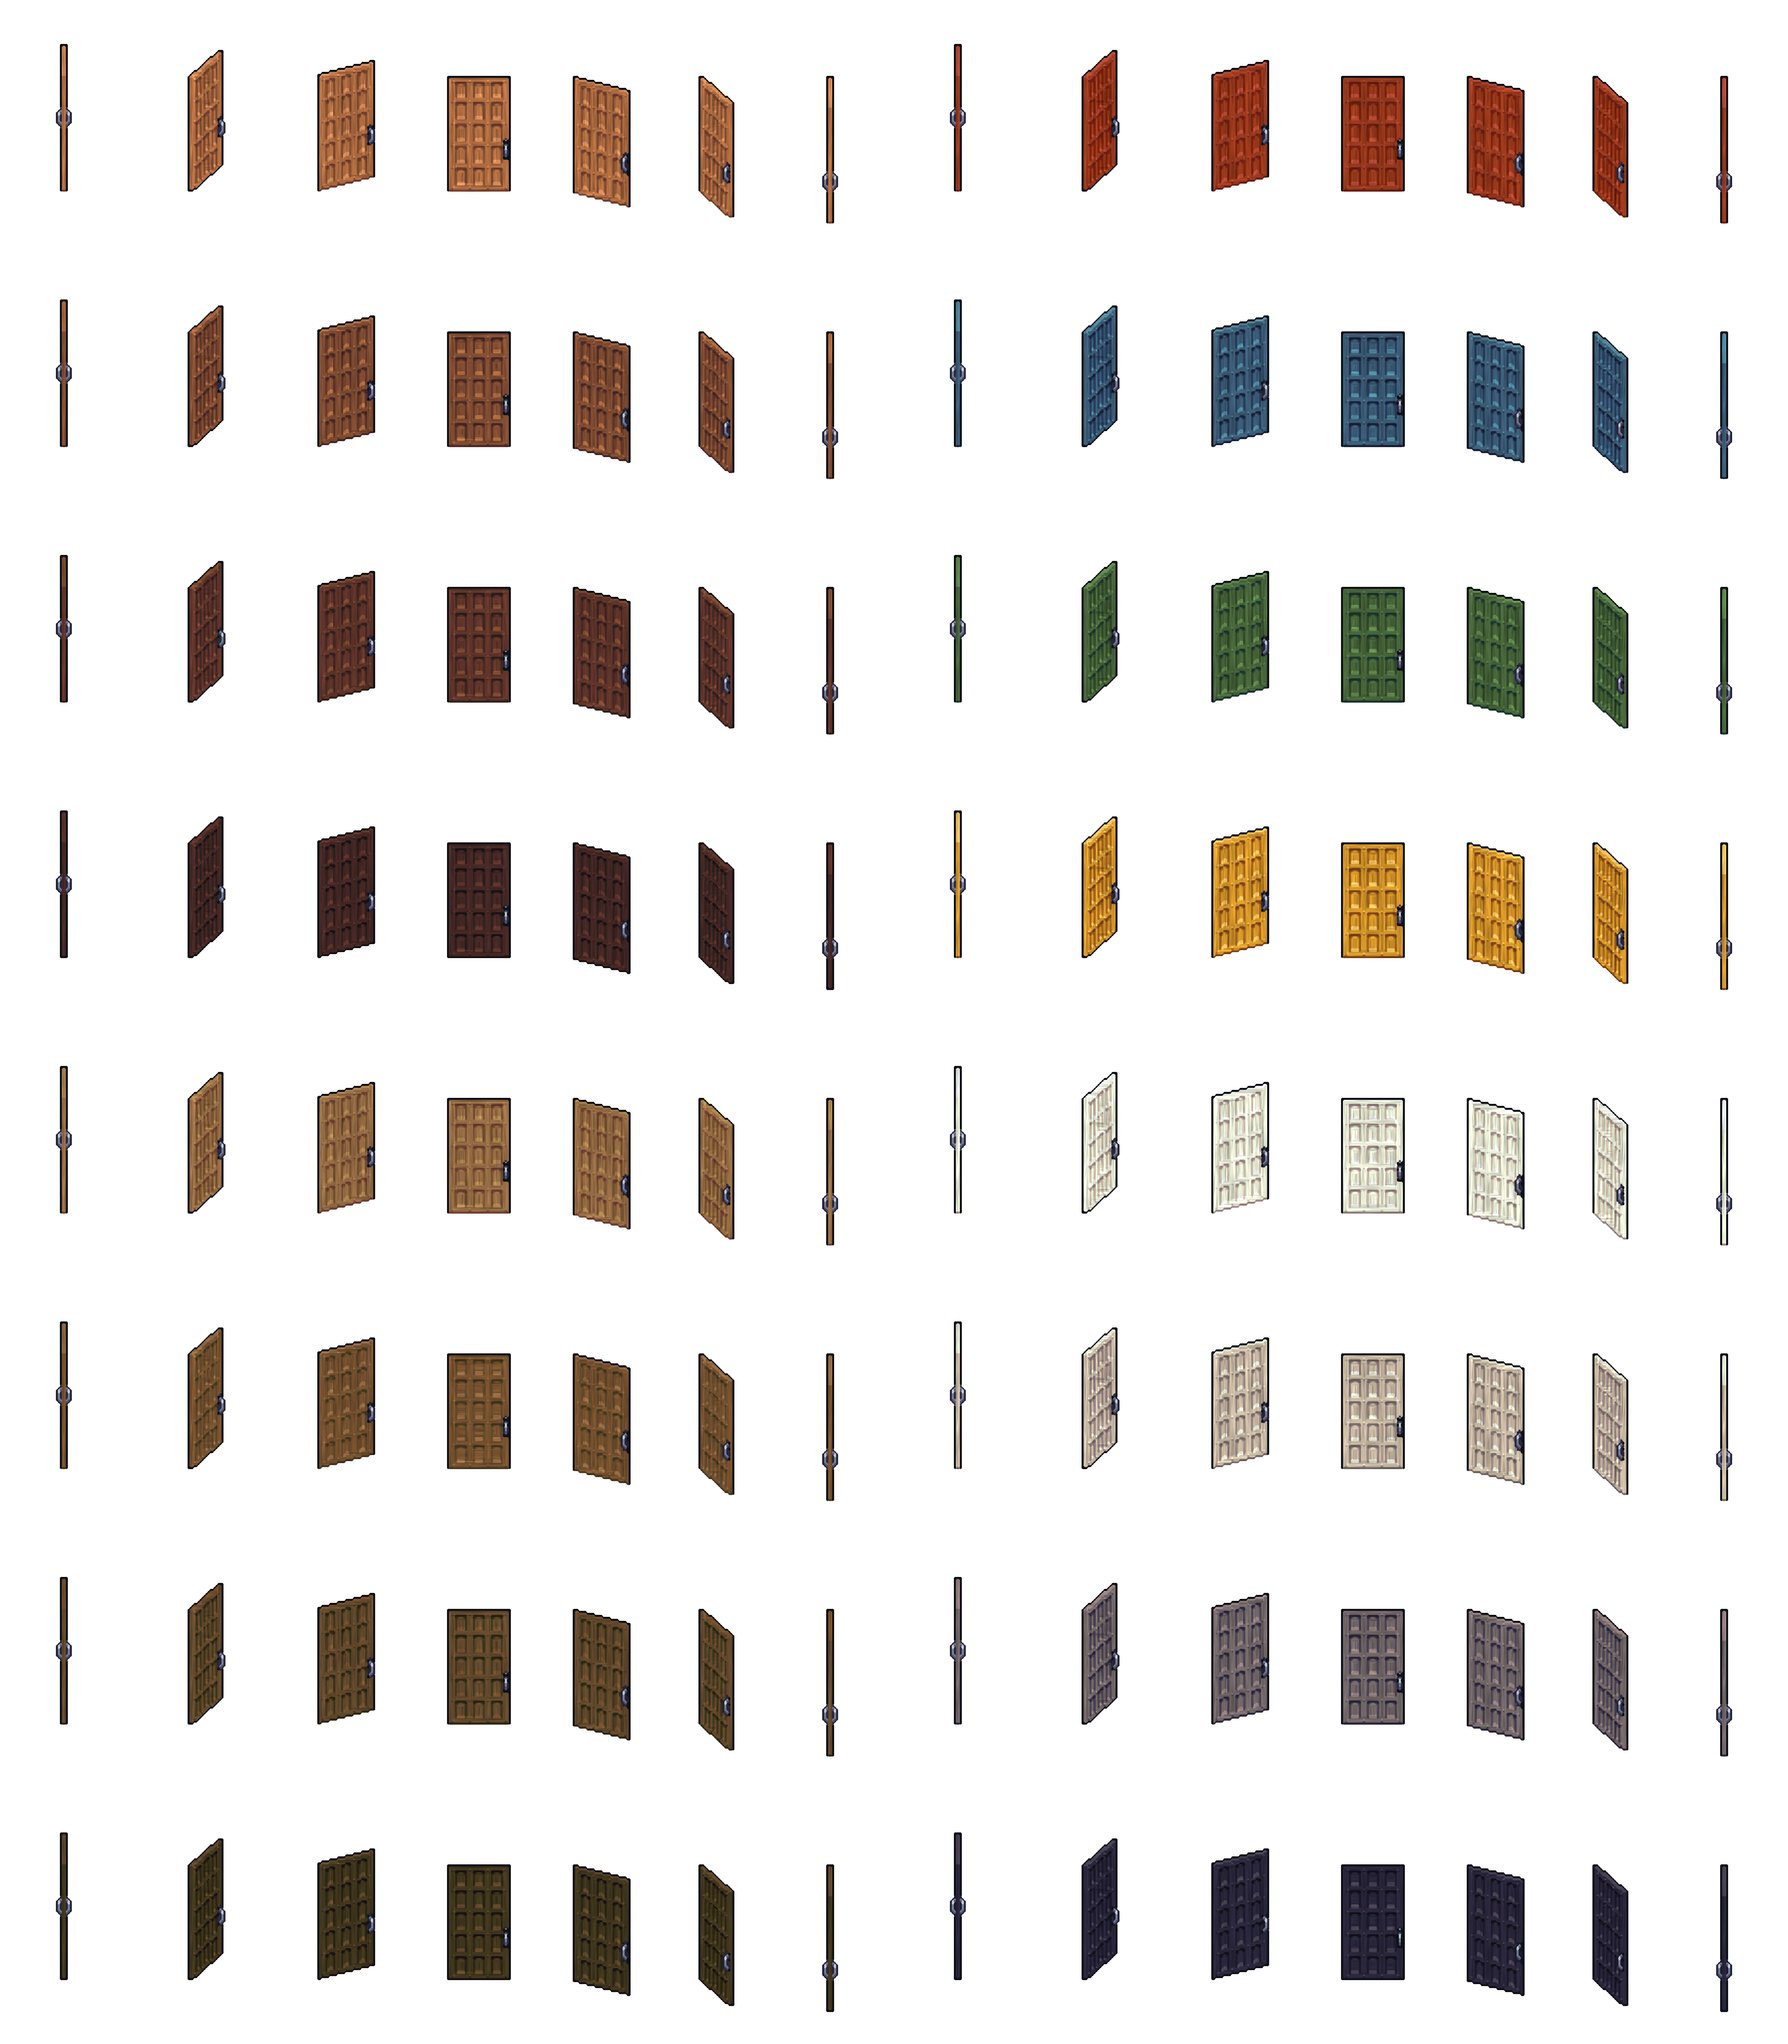
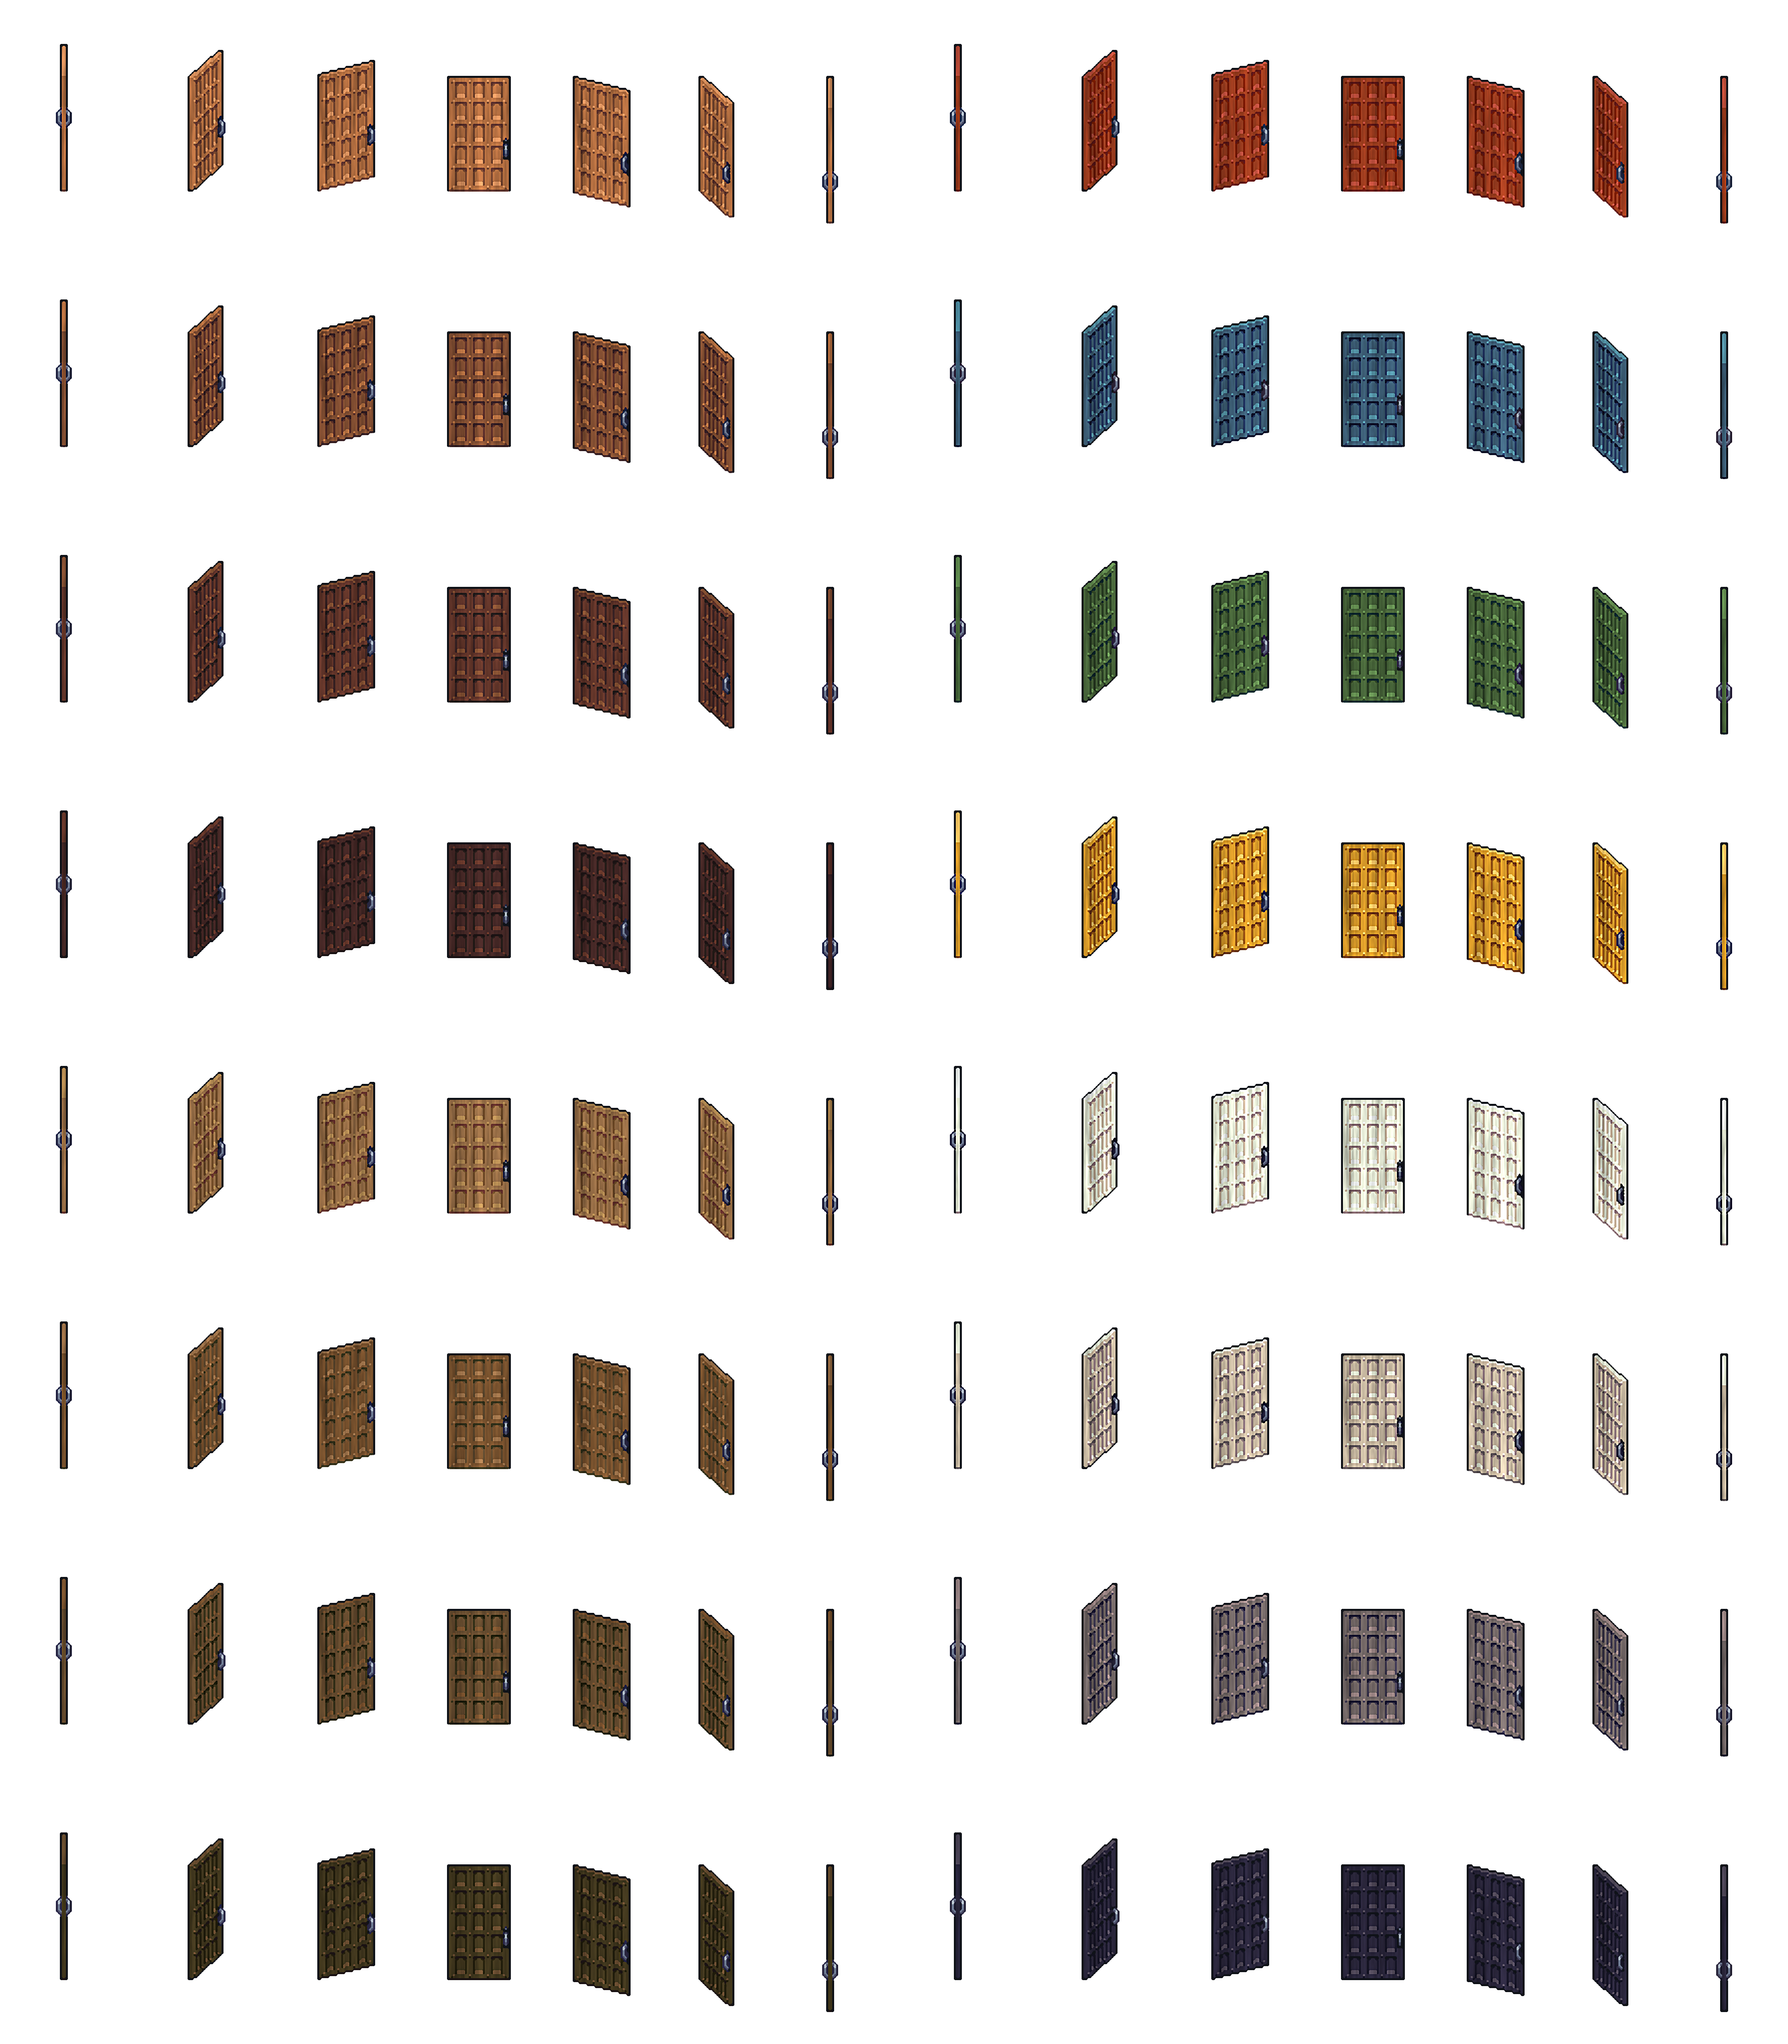
fix(towns): adobe house painted; crisp glazing, bevelled door panels, clean awnings
The adobe_house was the last building drawn from pixel-art sheets (Brick Wall A
walls, Adobe Stucco Roof). It now takes the painted kits those cells were the
source of: walls_brick_beige (same cells) and roofs_adobe_stucco (rows 32/96 ->
0/32), so no building has an LPC wall or roof left.

build_details.py polish (layouts and cell addresses unchanged):
- windows: the glazing (panes, cames, any stone mullion/transom set in it) is
  redrawn on the pixel art's own grid - straight crisp muntins and square pane
  corners instead of rounded blobs; glass keeps its soft reflection, gets the
  came's shadow along each pane's upper-left edges and a slight tone per pane,
  and the warm glow when lit. Wooden diagonal lattices keep the soft drawing.
- 15-panel door: shade bands kept crisp and their contrast lifted so the panels
  read bevelled at 2x; a bolder vertical grain.
- awnings: the linen weave that greyed the cloth is gone (saturated original
  colours), a crisper silhouette, soft vertical fold shading.
Per-sheet options; new noise fields draw from their own RNG so other sheets'
output is unchanged.

Claude-Session: https://claude.ai/code/session_015H8bBwBoYmHtzQn6aSaAEB

diff --git a/scripts/terrain_modern/build_details.py b/scripts/terrain_modern/build_details.py
@@ -146,18 +146,28 @@ def r_flat(c, x, y):
     return 'flat'
 
 
-# name -> (source under assets/, rules, colour quantisation or None[, mask smoothing])
+# name -> (source under assets/, rules, colour quantisation or None[, mask smoothing[, options]])
 # (rectilinear structure art - panes, panels, mouldings - is smoothed less, so
 # square corners stay square; round things - hay, barrels, leaves - more)
+# options:
+#   colour_sig  smoothing of the colour masks inside a material (default: the mask smoothing)
+#   beta_scale  how much crisper the shade bands inside a material stay (x the MAT beta)
+#   vert        grain direction forced (1 = boards run up and down)
+#   grain       'door': a bolder, coarser grain that still reads at 2x
+#   glazing     panes and cames drawn crisp (see glaze())
+#   cloth       'awning': no weave, soft folds down the cloth
 RECT = 0.5
+GLAZING = {'glazing': True}
 SHEETS = {
     'doorframe':  ('lpc/Structure/Doors/32x64px Doors/Doorframe A.png', r_frame, None, RECT),
-    'door':       ('lpc/Structure/Doors/32x64px Doors/15 Panel Door A.png', r_door, None, RECT),
+    'door':       ('lpc/Structure/Doors/32x64px Doors/15 Panel Door A.png', r_door, None, RECT,
+                   {'colour_sig': 0.32, 'beta_scale': 3.5, 'vert': 1.0, 'grain': 'door'}),
     'arched':     ('lpc/Structure/Doors/64x64px Arched Doors/Arched Double Doors A.png', r_door, None, RECT),
-    'stonewin':   ('lpc/Structure/Windows/Stone Windows A.png', r_window, None, RECT),
-    'ornwin_a':   ('lpc/Structure/Windows/Ornamental Windows A.png', r_window, None, RECT),
-    'ornwin_b':   ('lpc/Structure/Windows/Ornamental Windows B.png', r_window, None, RECT),
-    'awning':     ('lpc/Structure/Windows/Window Awnings A.png', r_awning, None, 0.6),
+    'stonewin':   ('lpc/Structure/Windows/Stone Windows A.png', r_window, None, RECT, GLAZING),
+    'ornwin_a':   ('lpc/Structure/Windows/Ornamental Windows A.png', r_window, None, RECT, GLAZING),
+    'ornwin_b':   ('lpc/Structure/Windows/Ornamental Windows B.png', r_window, None, RECT, GLAZING),
+    'awning':     ('lpc/Structure/Windows/Window Awnings A.png', r_awning, None, 0.58,
+                   {'colour_sig': 0.62, 'beta_scale': 1.6, 'cloth': 'awning'}),
     'chimney':    ('lpc/Structure/Roofing/Brick Chimney A.png', r_stone, None, RECT),
     'sign':       ('lpc/Structure/Signs/Sign Backgrounds A.png', r_sign, None, RECT),
     'pillar':     ('lpc/Structure/Pillars/Stone Pillar A.png', r_stone, None, RECT),
@@ -199,6 +209,21 @@ def _tex_hp(name, size, sig):
 _g = _norm(_noise((16, 0.7))) * 0.6 + _norm(_noise((40, 1.8))) * 0.4
 GRAIN_V = _std(_g + 0.35 * _norm(_noise((6, 0.5))))
 GRAIN_H = GRAIN_V.T.copy()
+# a door's boards: coarser fibres and long darker streaks, so the grain survives being drawn at 2x
+_rng2 = np.random.default_rng(20261107)
+
+
+def _noise2(sig):
+    return ndimage.gaussian_filter(_rng2.standard_normal((TS, TS)), sig, mode='wrap')
+
+
+GRAIN_DOOR = _std(_norm(_noise2((28, 1.5))) * 0.5 + _norm(_noise2((90, 3.5))) * 0.3
+                  + _norm(_noise2((7, 0.7))) * 0.2)
+# an awning's folds: soft vertical swells, their spacing wandering a little
+_fx = np.arange(TS, dtype=np.float32)
+_wob = ndimage.gaussian_filter1d(_rng2.standard_normal(TS), 40, mode='wrap')
+_wob = _wob / (np.abs(_wob).max() + 1e-6)
+FOLDS = np.tile(np.sin(2 * np.pi * (_fx / 22.0 + 0.35 * _wob))[None, :], (TS, 1)).astype(np.float32)
 SPECKLE = _std(_norm(_noise(1.6)) * 0.4 + _norm(_noise(4.0)) * 0.35 + _norm(_noise(12.0)) * 0.25)
 CLOTH = _std(_norm(_noise((0.6, 3))) * 0.5 + _norm(_noise((3, 0.6))) * 0.3 + _norm(_noise(12)) * 0.2)
 STRAW = _tex_hp('thatch_tile.png', 256, 6)
@@ -211,12 +236,22 @@ def field(F, oy, ox, h, w):
     return F[np.ix_(ys, xs)]
 
 
-def surface(kind, rgb, oy, ox, vert, m):
+def surface(kind, rgb, oy, ox, vert, m, opts=None):
     """Lay a material's surface over its colour field rgb (h,w,3)."""
+    opts = opts or {}
     h, w = rgb.shape[:2]
     if kind is None:
         return rgb
     L = rgb.mean(2, keepdims=True)
+    if kind == 'wood' and opts.get('grain') == 'door':
+        # the panels' bevels pressed in harder (the shade bands' contrast lifted
+        # locally), then the boards' grain
+        soft = np.dstack([ndimage.gaussian_filter(rgb[..., i], 3.0) for i in range(3)])
+        rgb = rgb + 0.9 * (rgb - soft)
+        return rgb * (1 + 0.095 * field(GRAIN_DOOR, oy, ox, h, w)[..., None])
+    if kind == 'cloth' and opts.get('cloth') == 'awning':
+        f = field(FOLDS, oy, ox, h, w)
+        return rgb * (1 + 0.045 * f[..., None] + 0.008 * field(CLOTH, oy, ox, h, w)[..., None])
     if kind in ('wood', 'paintwood'):
         g = vert * field(GRAIN_V, oy, ox, h, w) + (1 - vert) * field(GRAIN_H, oy, ox, h, w)
         amp = 0.085 if kind == 'wood' else 0.035
@@ -286,6 +321,9 @@ def build(name):
         return save(out, rel)
     rel, rules, quant = SHEETS[name][:3]
     sig = SHEETS[name][3] if len(SHEETS[name]) > 3 else SIG
+    opts = SHEETS[name][4] if len(SHEETS[name]) > 4 else {}
+    csig = opts.get('colour_sig', sig)
+    bscale = opts.get('beta_scale', 1.0)
     src = os.path.join(ROOT, 'assets', rel)
     im = Image.open(src).convert('RGBA')
     if quant:
@@ -330,8 +368,8 @@ def build(name):
                 continue
             M = np.where(L >= 0, mat_of[L], -1)
 
-            def up(mask):
-                g = ndimage.gaussian_filter(mask.astype(np.float32), sig, mode='nearest')
+            def up(mask, s=sig):
+                g = ndimage.gaussian_filter(mask.astype(np.float32), s, mode='nearest')
                 return ndimage.zoom(g, K, order=3, grid_mode=True, mode='nearest')
 
             # the grain's direction: along the pixel art's edges (vertical edges -> vertical grain)
@@ -343,6 +381,8 @@ def build(name):
             vert = np.clip(0.5 + 1.2 * (jxx - jyy) / (jxx + jyy + 50), 0, 1)
             vert = ndimage.zoom(vert, K, order=1, grid_mode=True, mode='nearest')
             vert = np.where(vert > 0.5, np.clip((vert - 0.5) * 4 + 0.5, 0, 1), np.clip(0.5 - (0.5 - vert) * 4, 0, 1))
+            if 'vert' in opts:
+                vert = np.full_like(vert, opts['vert'])
 
             present = sorted(int(v) for v in np.unique(M) if v >= 0)
             hh, ww = (y1 - y0) * K, (x1 - x0) * K
@@ -359,12 +399,12 @@ def build(name):
                     rgb = np.broadcast_to(col[cids[0]], (hh, ww, 3)).astype(np.float32)
                     al = np.full((hh, ww), alp[cids[0]], np.float32)
                 else:
-                    st = np.stack([up(L == c) for c in cids])
-                    e = np.exp((st - st.max(0, keepdims=True)) * beta_in * 2)
+                    st = np.stack([up(L == c, csig) for c in cids])
+                    e = np.exp((st - st.max(0, keepdims=True)) * beta_in * bscale * 2)
                     wts = e / e.sum(0, keepdims=True)
                     rgb = np.einsum('kyx,kc->yxc', wts, col[cids])
                     al = np.einsum('kyx,k->yx', wts, alp[cids])
-                rgb = surface(surf, rgb, oy, ox, vert, mm)
+                rgb = surface(surf, rgb, oy, ox, vert, mm, opts)
                 fields.append(np.dstack([rgb, al]))
             st = np.stack(scores)
             beta = np.full((len(scores), 1, 1), BETA, np.float32)
@@ -379,7 +419,89 @@ def build(name):
             ey, ex = sy + min(B, H - by) * K, sx + min(B, W - bx) * K
             out[by * K:by * K + (ey - sy), bx * K:bx * K + (ex - sx), :3] = rgb_out[sy:ey, sx:ex]
             out[by * K:by * K + (ey - sy), bx * K:bx * K + (ex - sx), 3] = a_out[sy:ey, sx:ex] * 255
+    if opts.get('glazing'):
+        glaze(out, a, rules)
     save(out, rel)
+
+
+def _nn(v):
+    return np.repeat(np.repeat(v, K, 0), K, 1)
+
+
+def glaze(out, a, rules):
+    """Redraw a window sheet's glazing crisp: the panes and the cames (lead / iron
+    glazing bars) between them, with any stone mullion or transom set in it, are
+    one region drawn from the pixel art's own grid - straight muntins, square
+    pane corners - instead of the soft mask blend, which rounded each small pane
+    into a blob. Glass keeps its kind (dark, pale, lit): a soft reflection across
+    the window, the came's shadow along each pane's upper-left edges, a slight
+    tone of its own per pane (old glass), and the warm glow when lit; cames get
+    a lead ridge. The region's outer edge is anti-aliased into the frame."""
+    H, W = a.shape[:2]
+    mat = np.full((H, W), '', object)
+    for y in range(H):
+        for x in range(W):
+            if a[y, x, 3] == 255:
+                mat[y, x] = rules(tuple(int(v) for v in a[y, x, :3]), x, y)
+    glass = np.isin(mat, ['glass_dark', 'glass_pale', 'glass_lit'])
+    came = mat == 'iron'
+    # the glazing: the panes, the bars between them (closing across gaps of up
+    # to five px - a mullion with its edge lines), and the came round them
+    G = np.zeros((H, W), bool)
+    hl, vl = np.ones((1, 6), bool), np.ones((6, 1), bool)
+    for cx in range(0, W, C):
+        g = np.pad(glass[:, cx:cx + C], 6)
+        cl = (ndimage.binary_closing(g, hl) | ndimage.binary_closing(g, vl))[6:-6, 6:-6]
+        G[:, cx:cx + C] = cl | (ndimage.binary_dilation(cl, np.ones((3, 3), bool)) & came[:, cx:cx + C])
+    G &= a[..., 3] == 255
+    # (a lattice of wooden bars - often diagonal - stays as the soft blend drew it:
+    # only glazing barred with cames or stone is redrawn on the grid)
+    wood = ndimage.binary_dilation(mat == 'wood', np.ones((3, 3), bool))
+    comp, n = ndimage.label(G)
+    if n:
+        G &= ~np.isin(comp, np.unique(comp[wood & G]))
+    glass &= G
+    if not G.any():
+        return
+
+    def hi(mask, s):
+        g = ndimage.gaussian_filter(mask.astype(np.float32), s, mode='nearest')
+        return ndimage.zoom(g, K, order=1, grid_mode=True, mode='nearest')
+
+    def crisp(v, k):
+        return 1 / (1 + np.exp(-(v - 0.5) * k))
+
+    aG = crisp(hi(G, 0.3), 18)
+    ga = crisp(hi(glass, 0.2), 26)
+    rgb = a[..., :3].astype(np.float32)
+    # the bars' colour carried under the glass, nearest-neighbour (crisp bars)
+    _, (iy, ix) = ndimage.distance_transform_edt(glass, return_indices=True)
+    bar = _nn(rgb[iy, ix])
+    barcame = _nn(came[iy, ix])
+    # the cames a flat lead, lit along their upper edge; a touch of stone speckle on mullions
+    lip = np.clip(ndimage.shift(ga, (1, 0), order=0, mode='nearest') - ga, 0, 1) * barcame
+    sp = np.tile(SPECKLE, (H * K // TS + 1, W * K // TS + 1))[:H * K, :W * K]
+    bar = np.where(barcame[..., None], bar + 10 + lip[..., None] * 26, bar * (1 + 0.035 * sp[..., None]))
+    # the glass: each kind's colour (nearest), each pane a tone of its own
+    _, (jy, jx) = ndimage.distance_transform_edt(~glass, return_indices=True)
+    panes, n = ndimage.label(glass)
+    tone = np.concatenate([[1.0], 1 + 0.045 * np.random.default_rng(H * 1000 + W).standard_normal(n)]).astype(np.float32)
+    gcol = _nn(rgb[jy, jx] * tone[panes[jy, jx]][..., None])
+    gk = _nn(mat[jy, jx])
+    lit = _nn((mat == 'glass_lit').astype(np.float32))
+    # the cames' shadow on the glass along each pane's upper and left edges
+    sh = ndimage.shift(ndimage.gaussian_filter(1 - ga, 0.9), (1.2, 1.2), order=1, mode='nearest')
+    gl = np.zeros_like(gcol)
+    for kind in ('glass_dark', 'glass_pale', 'glass_lit'):
+        m = gk == kind
+        if not m.any():
+            continue
+        sf = surface(kind, gcol, 0, 0, None, lit)
+        depth = 0.30 if kind != 'glass_lit' else 0.18
+        sf = sf * (1 - depth * np.clip(sh, 0, 1))[..., None]
+        gl[m] = sf[m]
+    inner = ga[..., None] * gl + (1 - ga[..., None]) * bar
+    out[..., :3] = aG[..., None] * inner + (1 - aG[..., None]) * out[..., :3]
 
 
 def save(out, rel):
